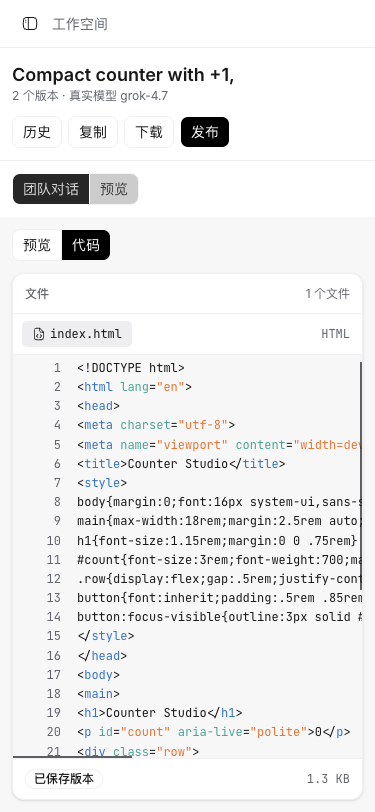
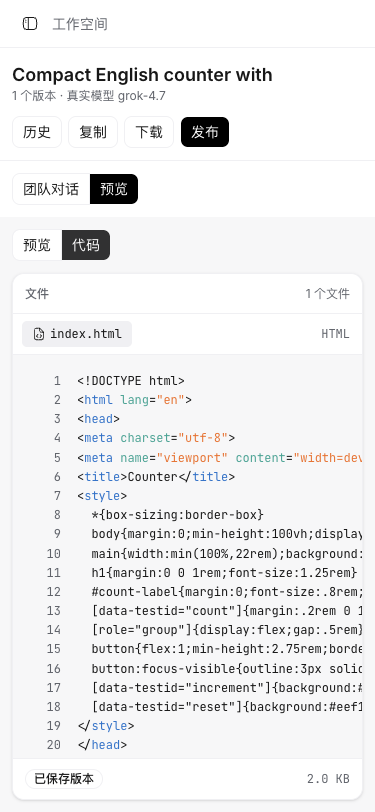
docs: record workspace release

diff --git a/docs/operations/deployment.md b/docs/operations/deployment.md
@@ -24,6 +24,12 @@ A browser-only HTTP 500 fixture reproduced prompt loss on failed project creatio
 
 Release `d0d1fd3` passed [CI lint, typechecks, tests, and builds](https://github.com/Muluk-m/formlane/actions/runs/43012062506) and deployed through the personal-account guard to Pages deployment `0ddc106f` and Worker version `a5f6d309-e65a-47e6-861d-a3e562d9f9be`; no D1 migrations were pending. Production verification covered the assistant composer, persisted market conversation with 12 replayed tool calls, an enabled composer after replay, mobile preview switching without horizontal overflow, and HTTP 200 for the published market example. The [production screenshot](../screenshots/assistant-production.png) records the deployed surface. `/version.json` reports build `202611111928`; its optional commit field remains `unknown` because this invocation did not set `BUILD_COMMIT`.
 
+Workspace release `934332a` passed [CI lint, typechecks, browser tests, and builds](https://github.com/Muluk-m/formlane/actions/runs/43040437010). The guarded production release deployed Pages `f95ddb20` and Worker `cfffd2e2-b9c1-4ae9-ac2d-37013faac991`; no migrations were pending. `/version.json` reports build `202611112240`, commit `934332a5d172`. Executor streaming change `762d1bf` was installed on the approved GCP VM and the systemd service returned active.
+
+Production verification project `77d71717-2de6-411c-82c3-1e0236cef674` generated a real counter. Its approximately 2 KB source appeared while Alex was still active and the project had zero saved versions, as captured in the [live draft screenshot](../screenshots/live-draft-production.png). The UI labeled it an unsaved draft. Independent review then accepted the application and one saved version became available. Hands-on checks passed increment, decrement below zero, reset, Space activation, persisted reload/replay, and an enabled follow-up composer after replay. At 375×812, the source pane had no page overflow and switching panels preserved an unsent draft. No runtime exceptions were observed during the verified reload; the existing public market example still returned HTTP 200 without owner credentials.
+
+The first CI attempt failed before tests because Ubuntu mirror DNS resolution failed during a redundant Playwright dependency installation. The runner already includes the same Google Chrome binary used by the tests. The workflow now checks that executable directly and retains all browser tests; the corrected full run passed in 1 minute 18 seconds.
+
 On 2026-11-11, acceptance fix `0f8d673` was deployed to GCP. Both real-browser regression tests passed there under the non-root `formlane` account with Chromium sandboxing enabled. Revision `3bb34b3` then passed [CI lint, typecheck, tests and build](https://github.com/Muluk-m/formlane/actions/runs/42987607630), using system Chrome for Ubuntu AppArmor compatibility. A real-provider SDK probe terminated successfully at its review tool within one model turn.
 
 Grok verification passed both non-streaming and streaming SDK tool calls. A probe using the production HTML/check schema generated a 442-character interactive counter and two checks in 11.4 seconds, then passed the real sandboxed browser validator in 15.3 seconds. This establishes schema and runtime compatibility, not full market-app acceptance. Grok run `924bb1c3-780b-4d0f-b47b-7d65bc43579c` failed with a terminated HTTP response stream. Fix `00a999a` classifies this transport error for the existing bounded provider retries; its real socket-disconnection regression and [CI](https://github.com/Muluk-m/formlane/actions/runs/42992766223) passed, and the executor fix was deployed.

diff --git a/README.md b/README.md
@@ -9,7 +9,7 @@ Try the [live workspace](https://formlane-9dp.pages.dev) or the [published marke
 ![Idea workspace](docs/screenshots/home-redesign-desktop.png)
 ![Execution trace and generated code](docs/screenshots/execution-redesign-desktop.png)
 
-The screenshots show the redesigned interface using a persisted real-provider counter project. See the [mobile homepage](docs/screenshots/home-redesign-mobile.png), [mobile source view](docs/screenshots/code-redesign-mobile.png), and [published market example](docs/screenshots/real-market-desktop.png).
+The screenshots show the deployed interface and a persisted real-provider counter project. See the [live draft before acceptance](docs/screenshots/live-draft-production.png), [mobile homepage](docs/screenshots/home-redesign-mobile.png), [mobile source view](docs/screenshots/code-redesign-mobile.png), and [published market example](docs/screenshots/real-market-desktop.png).
 
 ## Features
 
